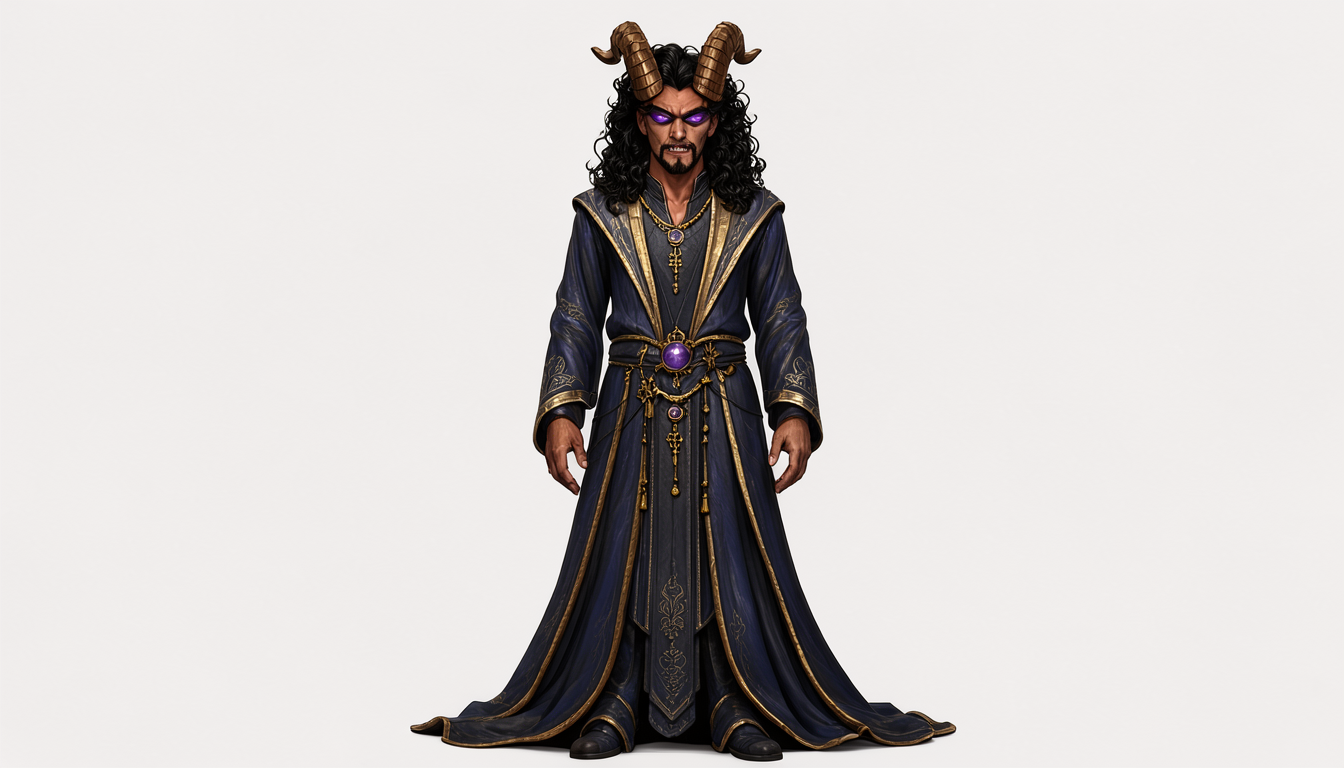
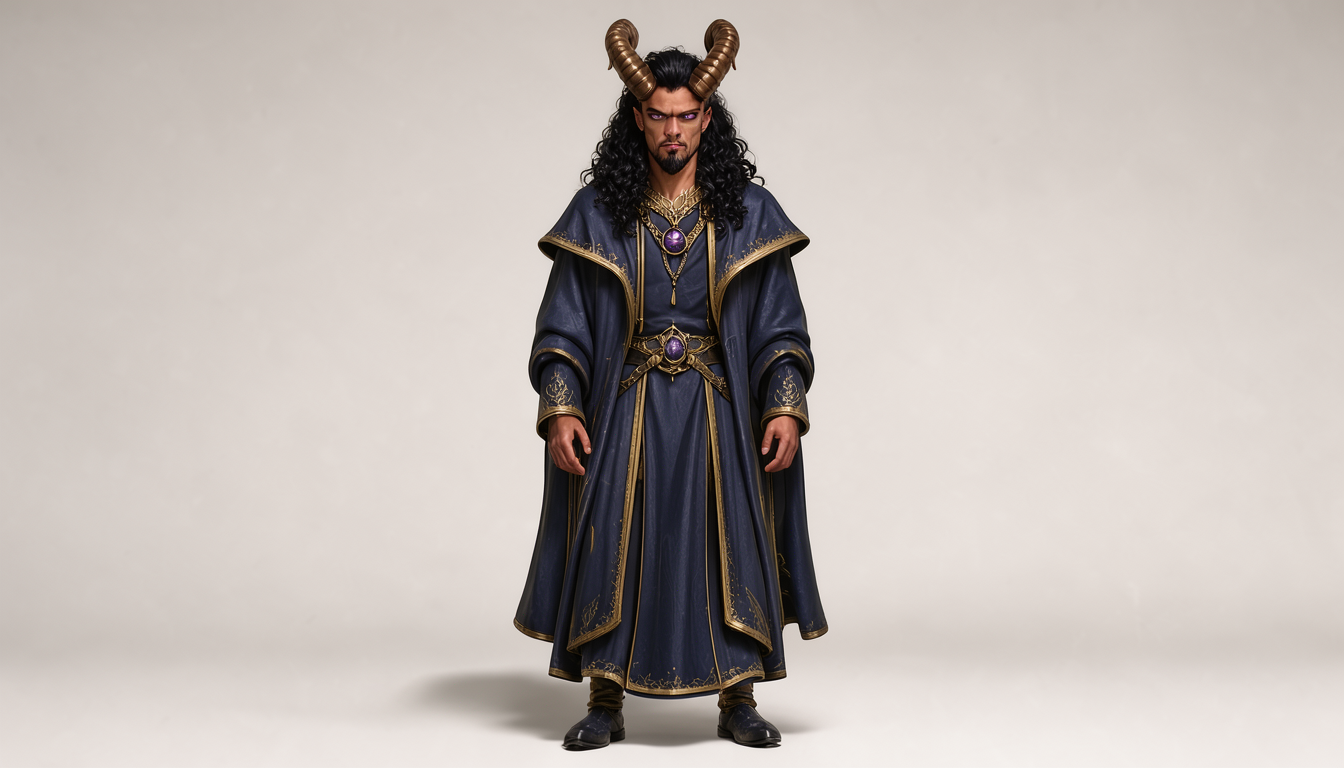
sheet-test: Keechwah lab batch 31 — ankle-length swap, both counts pass

diff --git a/tests/test_keechwahlab.py b/tests/test_keechwahlab.py
@@ -52,6 +52,12 @@ BATCH29_SEEDS = [875129475, 1472668588, 319719566, 195293451, 77699563, 96680292
 BATCH30_KEYS = [f"keechwah_r{i:02d}" for i in range(1, 11)]
 BATCH30_SEEDS = [2065821486, 930887360, 88839317, 1090675945, 1905371701, 1554671163,
                  236894354, 1180323667, 216049632, 782838461]
+# Batch 31 ladder: ankle-length swap check (harvest script
+# C:/Users/Andrew/AppData/Local/Temp/harvest27.py, master seed 20261120,
+# verified disjoint from all 264 previously used seeds)
+BATCH31_KEYS = [f"keechwah_r{i:02d}" for i in range(1, 11)]
+BATCH31_SEEDS = [1904530516, 1660372660, 1261258012, 914509270, 597283485, 1793141911,
+                 455843947, 1822728617, 575196528, 542303531]
 # Batch 3 ladder: 20-seed survey on the batch-2 block (master list seed
 # 20261104, verified disjoint from all previously used seeds)
 BATCH3_KEYS = [f"keechwah_r{i:02d}" for i in range(1, 21)]
@@ -128,6 +134,21 @@ BATCH30_BLOCK = (
     "ornate gold jewelry including a purple orb pendant, the trailing hem of the "
     "robes trimmed in gold."
 )
+# Batch 31: ankle-length swap (user's call — "trailing" literally drags).
+# "Trailing" -> "ankle-length": length word swap, hem-detail anchor intact.
+BATCH31_BLOCK = (
+    "An adult male warlock with an athletic build, exactly two normal arms, and no wings. "
+    "He has warm bronze-tan human skin with a faint red cast, sharp masculine facial "
+    "features with a stern, knowing expression, and sharply pointed canine teeth. His "
+    "narrow, almond-shaped eyes rest under heavy eyelids, featuring solid glowing purple "
+    "irises that fill the entire visible eye with no white sclera or pupil. Long, thick, "
+    "curly black hair frames his face alongside a neatly trimmed dark black goatee, and "
+    "his ears come to slight points. Rising from the crown of his skull are two large "
+    "curved bronze-brown horns with a ridged texture, their bases buried deep within his "
+    "thick hair line. He wears elegant, flowing dark blue and gold wizard robes with "
+    "ornate gold jewelry including a purple orb pendant, the ankle-length hem of the "
+    "robes trimmed in gold."
+)
 
 
 class TestKeechwahLabDescriptions(unittest.TestCase):
@@ -139,9 +160,9 @@ class TestKeechwahLabDescriptions(unittest.TestCase):
 
     def test_baseline_block_is_arm_b_verbatim(self):
         text, sources = self.load_block()
-        self.assertEqual(text, BATCH30_BLOCK, "batch-30 block must be the hem-trim probe verbatim")
+        self.assertEqual(text, BATCH31_BLOCK, "batch-31 block must be the ankle-length swap verbatim")
         self.assertNotIn("tail", text)
-        self.assertIn("hem of the robes trimmed in gold", text)
+        self.assertIn("ankle-length hem", text)
         self.assertIn("character-bible/Sheets/Keechwah.pdf", sources)
         self.assertIn(KEECHWAH_URL, sources)
         self.assertTrue(any("bible.md locked chunks" in s for s in sources))
@@ -155,13 +176,13 @@ class TestKeechwahLabPrompts(unittest.TestCase):
 
     def test_lab_prompts_schema(self):
         prompts = self.load_prompts()
-        self.assertEqual(list(prompts), BATCH30_KEYS, "lab keys must be the batch-30 ladder in order")
+        self.assertEqual(list(prompts), BATCH31_KEYS, "lab keys must be the batch-31 ladder in order")
         text, _ = TestKeechwahLabDescriptions().load_block()
-        for i, key in enumerate(BATCH30_KEYS):
+        for i, key in enumerate(BATCH31_KEYS):
             entry = prompts[key]
             self.assertEqual(list(entry.keys()), PROMPT_KEYS, f"{key} key mismatch")
             self.assertEqual(entry["arm"], "C")
-            self.assertEqual(entry["seed"], BATCH30_SEEDS[i], f"{key} seed mismatch")
+            self.assertEqual(entry["seed"], BATCH31_SEEDS[i], f"{key} seed mismatch")
             self.assertEqual(entry["frame"], FRAME_C)
             self.assertEqual(entry["prompt"], f"{FRAME_C} {ADDENDUM} {text}", f"{key} not exact composition")
             self.assertIn(entry["output"], (None, f"img/{key}.png"))
@@ -172,9 +193,9 @@ class TestKeechwahLabPrompts(unittest.TestCase):
 
         stems = [os.path.splitext(os.path.basename(p))[0] for p in _glob.glob("workflows/keechwahlab_*.json")]
         found = {s.removeprefix("keechwahlab_") for s in stems}
-        self.assertEqual(found, set(BATCH30_KEYS), f"lab workflow set mismatch: {found}")
+        self.assertEqual(found, set(BATCH31_KEYS), f"lab workflow set mismatch: {found}")
         prompts = self.load_prompts()
-        for key in BATCH30_KEYS:
+        for key in BATCH31_KEYS:
             with open(f"workflows/keechwahlab_{key}.json", encoding="utf-8") as f:
                 g = json.load(f)
             seeds = [n["inputs"][k] for n in g.values() for k in ("seed", "noise_seed") if k in n.get("inputs", {})]

diff --git a/character-bible/sheet-test/keechwah-lab/README.md b/character-bible/sheet-test/keechwah-lab/README.md
@@ -45,6 +45,8 @@ overwrite — every generation snapshots to `batches/batch<N>/` with its
 | batch28 | Tailless: batch-27 block verbatim minus the tail clause (bible chunk carries no tail; tail was the top failure source) + 10-seed check | keechwah_r01-r10 (new ladder) |
 | batch29 | Fresh 10-seed ladder, tailless block unchanged (lottery test: 5/10 of batch 28 cropped) | keechwah_r01-r10 (new ladder) |
 | batch30 | Hem-trim anchor probe (user's proposal): tailless block + trailing hem trimmed in gold + 10-seed check | keechwah_r01-r10 (new ladder) |
+| batch31 | Ankle-length swap: "trailing" -> "ankle-length" (trailing literally drags), hem-detail anchor intact + 10-seed check | keechwah_r01-r10 (new ladder) |
+| batch31 spot-check (agent 2026-11-03, r01/r04/r07/r10) | BOTH COUNTS PASS: 4/4 full-body (anchor survives the word swap) and 4/4 ankle-length hems with visible footwear, no pooling. Trim renders, robes closed, horns rooted, pendant present, no tails, no wings. Wording is done — pending full human read, then graduation on keepers. | - |
 | batch30 spot-check (agent 2026-11-03, r01/r04/r07/r10) | ANCHOR CONFIRMED: 4/4 full-body with feet visible. Gold trim renders at the hems, robes closed, horns rooted ridged (r07 ram-swept), orb pendant present, no invented tails, no wings. Hem detail drags the camera down the way face detail drags it in — trim earns its place as functional wording. Full human read of all ten still wanted; then graduation pool (27-fulls + 28-fulls + 30). | - |
 | batch29 spot-check (agent 2026-11-03, r01/r04/r07/r10) | LOTTERY FALSIFIED: 4/4 cropped busts. Combined with batch 28's 5/10, the crop rate ROSE after the tail clause was removed (batch-27 sample: 0/3). New hypothesis: the hem/tail language was a compositional anchor — describing the trailing hem pulls the camera back to full body; without it, the face/chest detail (iris sentence, pendant) drags the camera in (batch-20 mechanism in reverse). Next: reversal test — restore the tail clause on a fresh ladder. | - |
 | batch28 spot-check (agent 2026-11-03, r01/r05/r10 only) | No invented tails on any of the three — the model does NOT add one unprompted. BUT 2/3 framing failures: r05 and r10 render as cropped busts, not full-body (frame clause ignored — seed lottery, same class as batch-19 crops). r01 is the prize: full body, closed robe, rooted ridged horns, orb pendant, stern grin, sleeveless-with-bracers arm drift. Full human read of all ten still wanted. | - |

diff --git a/character-bible/sheet-test/keechwah-lab/descriptions.md b/character-bible/sheet-test/keechwah-lab/descriptions.md
@@ -8,7 +8,7 @@ hooves, duplicate Keechwahs.
 
 ## Keechwah (keechwah)
 
-An adult male warlock with an athletic build, exactly two normal arms, and no wings. He has warm bronze-tan human skin with a faint red cast, sharp masculine facial features with a stern, knowing expression, and sharply pointed canine teeth. His narrow, almond-shaped eyes rest under heavy eyelids, featuring solid glowing purple irises that fill the entire visible eye with no white sclera or pupil. Long, thick, curly black hair frames his face alongside a neatly trimmed dark black goatee, and his ears come to slight points. Rising from the crown of his skull are two large curved bronze-brown horns with a ridged texture, their bases buried deep within his thick hair line. He wears elegant, flowing dark blue and gold wizard robes with ornate gold jewelry including a purple orb pendant, the trailing hem of the robes trimmed in gold.
+An adult male warlock with an athletic build, exactly two normal arms, and no wings. He has warm bronze-tan human skin with a faint red cast, sharp masculine facial features with a stern, knowing expression, and sharply pointed canine teeth. His narrow, almond-shaped eyes rest under heavy eyelids, featuring solid glowing purple irises that fill the entire visible eye with no white sclera or pupil. Long, thick, curly black hair frames his face alongside a neatly trimmed dark black goatee, and his ears come to slight points. Rising from the crown of his skull are two large curved bronze-brown horns with a ridged texture, their bases buried deep within his thick hair line. He wears elegant, flowing dark blue and gold wizard robes with ornate gold jewelry including a purple orb pendant, the ankle-length hem of the robes trimmed in gold.
 
 Sources:
 - character-bible/Sheets/Keechwah.pdf

diff --git a/character-bible/sheet-test/keechwah-lab/batches/batch31/descriptions.md b/character-bible/sheet-test/keechwah-lab/batches/batch31/descriptions.md
@@ -1,0 +1,16 @@
+# Keechwah Lab — baseline block for seed-robustness testing
+
+Single block source for `keechwah-lab`. Batch 1 is the Arm B Keechwah
+block verbatim (the starting point, as the Shade lab began from its
+Arm B block). Known failure modes from the bible NEVER list to watch
+for: female render, wings (Verruth confusion — Keechwah has NONE),
+hooves, duplicate Keechwahs.
+
+## Keechwah (keechwah)
+
+An adult male warlock with an athletic build, exactly two normal arms, and no wings. He has warm bronze-tan human skin with a faint red cast, sharp masculine facial features with a stern, knowing expression, and sharply pointed canine teeth. His narrow, almond-shaped eyes rest under heavy eyelids, featuring solid glowing purple irises that fill the entire visible eye with no white sclera or pupil. Long, thick, curly black hair frames his face alongside a neatly trimmed dark black goatee, and his ears come to slight points. Rising from the crown of his skull are two large curved bronze-brown horns with a ridged texture, their bases buried deep within his thick hair line. He wears elegant, flowing dark blue and gold wizard robes with ornate gold jewelry including a purple orb pendant, the ankle-length hem of the robes trimmed in gold.
+
+Sources:
+- character-bible/Sheets/Keechwah.pdf
+- https://www.dndbeyond.com/species/7-tiefling
+- bible.md locked chunks (main checkout)
